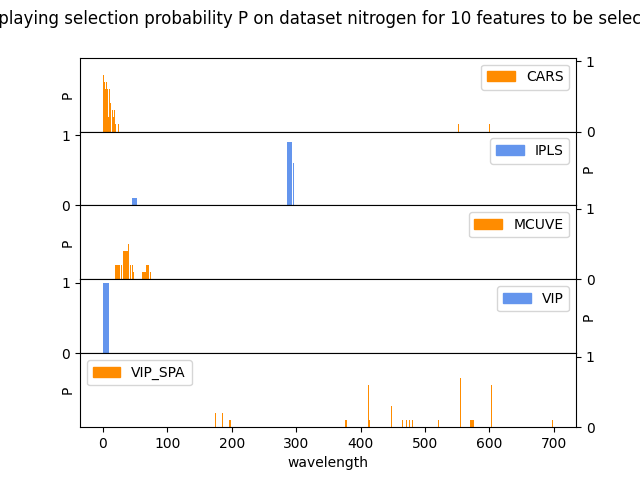
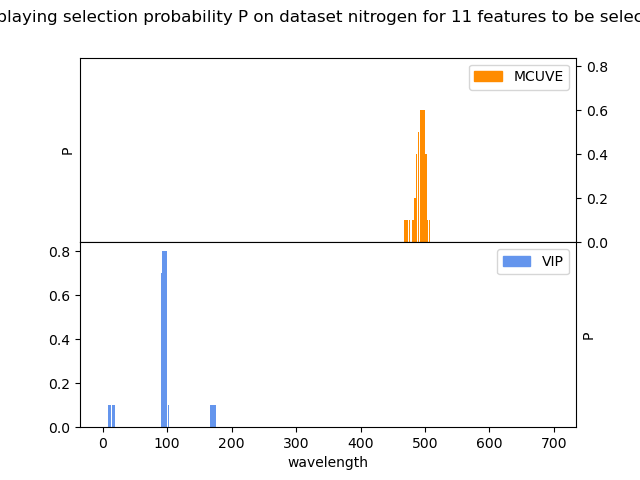
Continues finalizing plotting

diff --git a/benchmark/util/_plotting.py b/benchmark/util/_plotting.py
@@ -21,12 +21,24 @@ def _check_specified_or_singleton(pool, argument, identifier):
 
 
 # go
+def _check_valid_feature_descriptor(feature):
+    if isinstance(feature, tuple):
+        if len(feature) != 2:
+            raise ValueError('A number of features is specified with a tuple of two integers. '
+                             f'Got {feature}')
+        # check integer? -> let that handle the data handling
+    elif not isinstance(feature, int):
+        raise ValueError('A number of features is specified with an integer. '
+                         f'Got {feature}')
+
+
+# go
 def _arrange_boxes(pod, n_features, methods):
     x_coords = []
     ticks = np.arange(len(n_features) if n_features is not None else len(pod.n_features)) + 1  #start with 1
     n_methods = len(methods if methods is not None else pod.methods)
     for i in range(n_methods):
-        x_coords.append((-0.1 + ticks + (0.2 / (n_methods - 1)) * i).tolist())
+        x_coords.append((-0.15 + ticks + (0.3 / (n_methods - 1)) * i).tolist())
     return x_coords, ticks
 
 
@@ -47,6 +59,9 @@ def _box_plot(title: str,
     fig, ax = plt.subplots(nrows=1, ncols=1, figsize=(10, 5))
     legend_handles = []
 
+    # adapt box width to the offsetting and the number of methods
+    box_width = (0.3 * 0.9) / len(y_data)
+
     if legend is None:
         plotting_kwargs = dict()
         for entity in entities:
@@ -58,10 +73,7 @@ def _box_plot(title: str,
             for entity in entities:
                 plotting_kwargs[entity] = dict(color=colors(i))
 
-        #if not isinstance(data, list):  # only a single box per method
-            #data = [data]
-
-        ax.boxplot(data, positions=x_data[i], whis=(0, 100), widths=0.05, manage_ticks=False, **plotting_kwargs)
+        ax.boxplot(data, positions=x_data[i], whis=(0, 100), widths=box_width, manage_ticks=False, **plotting_kwargs)
 
         if legend is not None:
             legend_handles.append(mpatches.Patch(color=colors(i), label=legend[i]))
@@ -69,6 +81,7 @@ def _box_plot(title: str,
     ax.set_title(title)
     ax.set_xlabel(x_label)
     ax.set_ylabel(y_label)
+    ax.grid(axis='y')
 
     if ticks is not None:  # apply custom ticking and labelling
         ax.set_xticklabels(tick_labels)
@@ -122,6 +135,7 @@ def _errorbar_plot(title: str,
     ax.set_xticklabels(tick_labels)
     ax.set_xticks(ticks)
     ax.legend(handles=legend_handles)
+    ax.grid(axis='y')
 
     if save_path is not None:
         plt.savefig(save_path)
@@ -152,6 +166,7 @@ def _line_plot(title: str,
     ax.set_xlabel(x_label)
     ax.set_ylabel(y_label)
     ax.legend(handles=legend_handles)
+    ax.grid(axis='y')
 
     if save_path is not None:
         plt.savefig(save_path)
@@ -232,6 +247,7 @@ def plot_exec_time(pod: BenchmarkPOD,
                    save_path: str = None):
 
     """
+        Plots execution times of selectors across different number of features to be selected
 
     Parameters
     ----------
@@ -380,10 +396,11 @@ def plot_score(pod: BenchmarkPOD,
                methods: Union[str, List[str]] = None,
                n_features: List[Union[int, Tuple[int, int]]] = None,
                item: Literal['mean', 'median'] = 'mean',
-               plot_type: Literal['box', 'bar'] = 'bar',
+               plot_type: Literal['box', 'bar'] = 'box',
                save_path: str = None):
 
     """
+        Plot regression scores of selectors across different number of features to be selected as box or bar plot
 
     Parameters
     ----------
@@ -453,6 +470,7 @@ def plot_stability(pod: BenchmarkPOD,
                save_path)
 
 
+# go
 def _plot_selection_bar(pod: BenchmarkPOD,
                         dataset: str,
                         n_features: int,
@@ -464,10 +482,10 @@ def _plot_selection_bar(pod: BenchmarkPOD,
     fig = plt.figure()
     gs = fig.add_gridspec(len(methods), hspace=0)
     axs = gs.subplots(sharex=True, sharey=True)
-    fig.suptitle(f'Displaying selection probability P on dataset {dataset} for {n_features} features to be selected')
+    fig.suptitle(f'Selection probability P on dataset {dataset} for {n_features} features.')
 
     selections = pod.get_selection_data(dataset=dataset, method=methods, n_features=n_features)
-    n_wavelengths = pod.get_meta(dataset)[2][1]
+    n_wavelengths = pod.get_meta(dataset)[2][1]  # TODO: improve this interface
 
     if len(methods) == 1:
         axs = [axs]
@@ -479,7 +497,7 @@ def _plot_selection_bar(pod: BenchmarkPOD,
         bar_heights[unique_counts.index.to_numpy().astype('int')] = unique_counts.to_numpy()
 
         axs[i].bar(np.arange(n_wavelengths), bar_heights / pod.n_runs, color=colors[i % 2])
-        if i % 2 == 0:  # distribute y-axis ticks between left and right hand side
+        if i % 2 == 0:  # distribute y-axis ticks between left and right-hand side
             axs[i].yaxis.tick_right()
         else:
             axs[i].yaxis.set_label_position("right")
@@ -500,8 +518,8 @@ def _plot_selection_bar(pod: BenchmarkPOD,
 
 # TODO: probably to be discarded
 def _plot_selection_heatmap(pod: BenchmarkPOD,
-                            dataset: str,
                             n_features: int,
+                            dataset: str = None,
                             methods: Union[str, List[str]] = None,
                             save_path: str = None):
 
@@ -532,27 +550,38 @@ def _plot_selection_heatmap(pod: BenchmarkPOD,
 
 
 def plot_selection(pod: BenchmarkPOD,
-                   dataset: str,
-                   n_features: int,
+                   n_features: Union[int, Tuple[int, int]],
+                   dataset: str = None,
                    methods: Union[str, List[str]] = None,
                    plot_type: Literal['heatmap', 'bar'] = 'bar',
                    save_path: str = None):
 
     """
-            TODO
-    Parameters
-    ----------
-    pod
-    dataset
-    n_features
-    methods
-    plot_type
-    save_path
 
-    Returns
-    -------
+        Plots the selection probabililty for features of different selectors
+
+     Parameters
+     ----------
+    pod: BenchmarkPOD
+        BenchmarkPOD object containing the benchmarking data
+    dataset: str
+        dataset identifier
+    stability_metric: str
+        stability metric used for plotting
+    methods: Union[str, List[str]], default=None
+        method identifier or list of method identifiers for methods to be plotted. If None, all available methods
+        are plotted
+    plot_type: Literal['heatmap', 'bar'], default='bar'
+        plot type displayed
+    save_path: str, default=None
+        path on which to store the plot. If None, the plot is simply displayed
 
     """
+    dataset = _check_specified_or_singleton(pod.datasets, dataset, identifier='dataset')
+    _check_valid_feature_descriptor(n_features)
+
+    if methods is None:
+        methods = pod.methods
 
     if plot_type == 'bar':
         _plot_selection_bar(pod, dataset, n_features, methods, save_path)

diff --git a/benchmark/util/_metrics.py b/benchmark/util/_metrics.py
@@ -5,14 +5,21 @@ import pandas as pd
 from ._data_handling import BenchmarkPOD
 
 
+def _resolve_tuple(n):
+    if isinstance(n, tuple):
+        return n[0] * n[1]
+    return n
+
+
 def _pairwise_scoring(pod: BenchmarkPOD, pairwise_sim_function, metric_name: str):
     r = pod.n_runs
     for n in pod.n_features:
+        n_resolved = _resolve_tuple(n)
         for method in pod.methods:
             for dataset in pod.datasets:
                 # retrieve the samples of selected features
                 supports = pod.get_selection_data(method=method, n_features=n, dataset=dataset).to_numpy()
-                supports = np.reshape(supports, newshape=(r, n))  # reshape to sample_runs x n_features selected
+                supports = np.reshape(supports, newshape=(r, n_resolved))  # reshape to sample_runs x n_features selected
 
                 pairwise_sim = []
                 dim0, dim1 = np.triu_indices(r)
@@ -21,7 +28,7 @@ def _pairwise_scoring(pod: BenchmarkPOD, pairwise_sim_function, metric_name: str
                         pairwise_sim.append(pairwise_sim_function(pod,
                                                                   support_1=supports[dim0[i]],
                                                                   support_2=supports[dim1[i]],
-                                                                  n_features=n,
+                                                                  n_features=n_resolved,
                                                                   method=method,
                                                                   dataset=dataset))
                 score = np.sum(np.array(pairwise_sim)) * (2 / (r * (r - 1)))
@@ -133,5 +140,3 @@ def mean_std_statistics(pod: BenchmarkPOD):
     samples = pod.get_measurement_data(item='samples')
     grouped = samples.groupby(axis=1, level=['dataset', 'n_features'], sort=False)
     _register_stats(pod.register_measurement, grouped)
-
-

diff --git a/examples/benchmarking.py b/examples/benchmarking.py
@@ -10,7 +10,7 @@ TODO: extend
 import pickle
 
 import numpy as np
-from auswahl import MCUVE, CARS, VIP, IPLS, VIP_SPA, VISSA, RandomFrog, iVISSA, ExceptionalSelector
+from auswahl import MCUVE, CARS, VIP, IPLS, VIP_SPA, FiPLS
 from benchmark import *
 
 from sklearn.metrics import mean_squared_error, mean_absolute_error
@@ -25,29 +25,27 @@ cars = CARS(n_features_to_select=10, n_jobs=2)
 vip = VIP(n_features_to_select=10, model_hyperparams={'n_components': [1, 2, 3]})
 ipls = IPLS(interval_width=10, n_jobs=2)
 vip_spa = VIP_SPA(n_features_to_select=10, n_jobs=2)
-rf = RandomFrog(n_features_to_select=10)
-ipls = IPLS(n_intervals_to_select=1, interval_width=10, n_jobs=2)
+ipls = IPLS(interval_width=10, n_jobs=2)
+fipls = FiPLS(interval_width=10)
 
-ivissa = iVISSA(n_intervals_to_select=2, interval_width=10)
-ex = ExceptionalSelector(n_features_to_select=10)
 
 pod = benchmark([(x, y, 'nitrogen', 0.9)],
-                features=[i for i in range(10, 100, 5)],
+                features=[(2, 10), (2, 11), (2, 12)],
                 n_runs=10,
                 reg_metrics=[mean_squared_error],
                 stab_metrics=[deng_score],
-                methods=[mcuve, vip],
+                methods=[mcuve, vip, cars, ipls, fipls],
                 random_state=11111111,
-                n_jobs=1,
+                n_jobs=2,
                 verbose=True)
 
 #print(pod.get_selection_data(sample_run=2))
 
-#plot_score(pod)
+plot_score(pod, save_path="./performance.png")
 #plot_exec_time(pod, dataset='nitrogen')
 #plot_score(pod, dataset='nitrogen', regression_metric=mean_absolute_error, plot_type='box')
 #plot_score_vs_stability(pod, n_features=10)
-plot_stability(pod)
+#plot_stability(pod)
 
 
 #print(pod.get_regression_data(n_features=11, item='samples'))

diff --git a/benchmark/_benchmarking.py b/benchmark/_benchmarking.py
@@ -498,9 +498,9 @@ def benchmark(data: List[Tuple[np.array, np.array, str, float, BaseEstimator]],
 
                 _parameterize(methods, n)
                 results = parallel(delayed(_benchmark_parallel)(xs[d], ys[d], train_sizes[d],
-                                                                           methods, method_names, reg_metrics,
-                                                                           run_seeds[r], r)
-                                              for r in range(n_runs))
+                                                                methods, method_names, reg_metrics,
+                                                                run_seeds[r], r)
+                                   for r in range(n_runs))
 
                 # insert the results of the processes into the BenchmarkPOD object or the error log
                 _pot(pod, dataset_names[d], features[i], method_names, reg_metric_names, results, logger)

diff --git a/auswahl/_base.py b/auswahl/_base.py
@@ -24,7 +24,7 @@ class CVEvaluator:
             raise ValueError(f'Keyword argument "n_cv_folds" is expected to be a positive integer. Got {self.cv_folds}')
 
     def _evaluate(self, X, y, model, do_cv=True):
-        model = PLSRegression() if model is None else clone(model)
+        model = PLSRegression(n_components=min(2, X.shape[1])) if model is None else clone(model)
         if self.model_hyperparams is None:  # no hyperparameter optimization; conduct a simple CV
             cv_scores = None
             if do_cv:

diff --git a/benchmark/util/_helpers.py b/benchmark/util/_helpers.py
@@ -5,5 +5,16 @@ from ._data_handling import BenchmarkPOD
 
 
 def load_pod(file_path: str):
+    """
+        TODO
+
+    Parameters
+    ----------
+    file_path
+
+    Returns
+    -------
+
+    """
     with open(file_path, 'rb') as file:
         return pickle.load(file)
